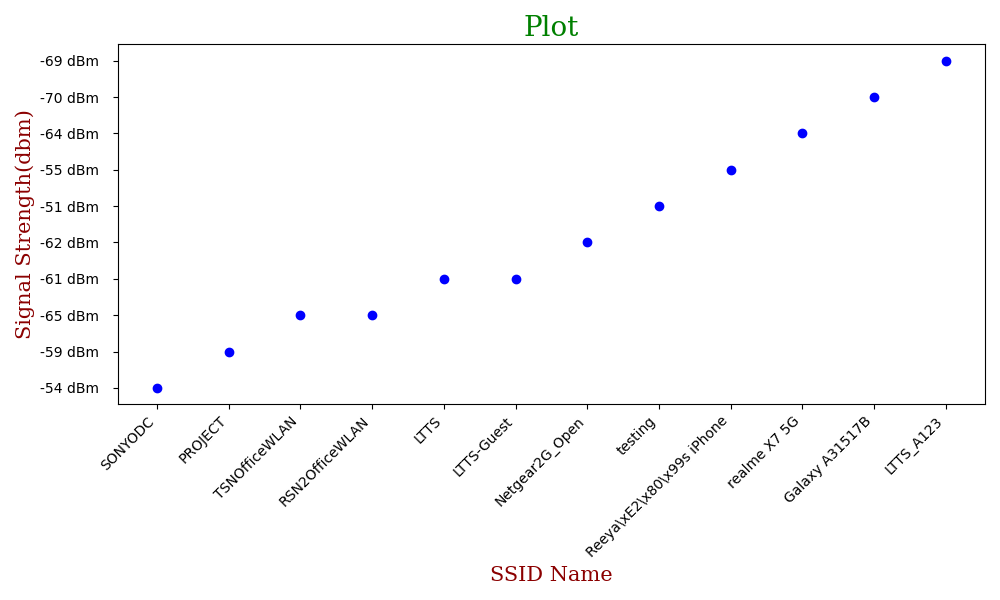
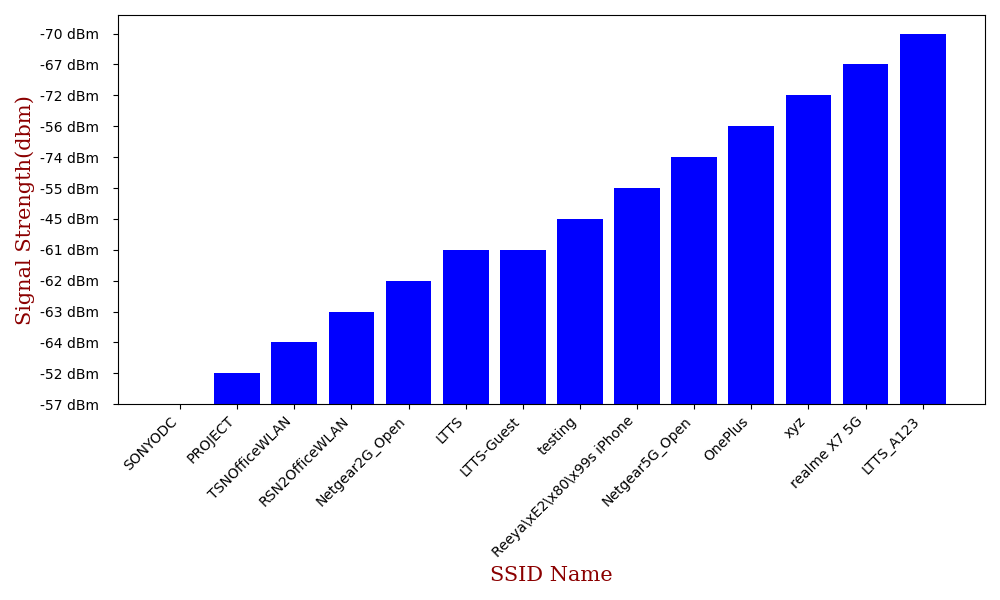
u

diff --git a/templates/plot.html b/templates/plot.html
@@ -20,6 +20,9 @@
         }
 	h1 {
            margin: 0;
+ 	   text-align: center;
+	   color: green;
+		
        }
 	h3 {
 	color: green;

diff --git a/updated_wifi.py b/updated_wifi.py
@@ -80,13 +80,13 @@ def plot_function():
 		x.append(ssid)
 		y.append(grouped_networks[ssid]['Signal Strength'][0])
 	plt.figure(figsize=(10,6))
-	plt.scatter(x,y,color='blue')
+	plt.bar(x,y,color='blue')
 	font1 = {'family':'serif','color':'darkred','size':15}
 	font2 = {'family':'serif','color':'green','size':20}
 	#plt.title('Plot',fontdict=font2)
 	plt.xlabel('SSID Name',fontdict=font1)
 	plt.ylabel('Signal Strength(dbm)',fontdict=font1)
-
+	
 	plt.xticks(rotation=45,ha='right')
 	plt.tight_layout()
 	path = os.path.join('static','plot.png')
